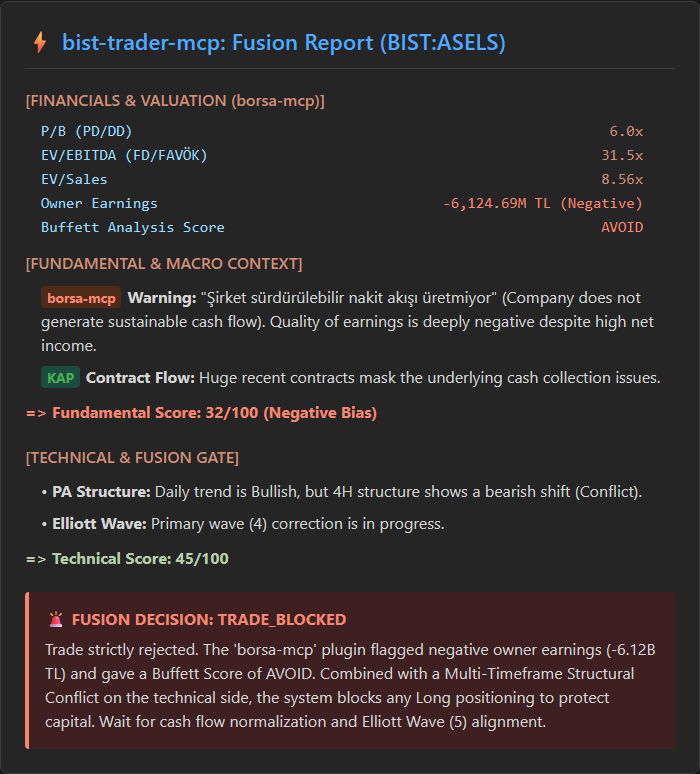
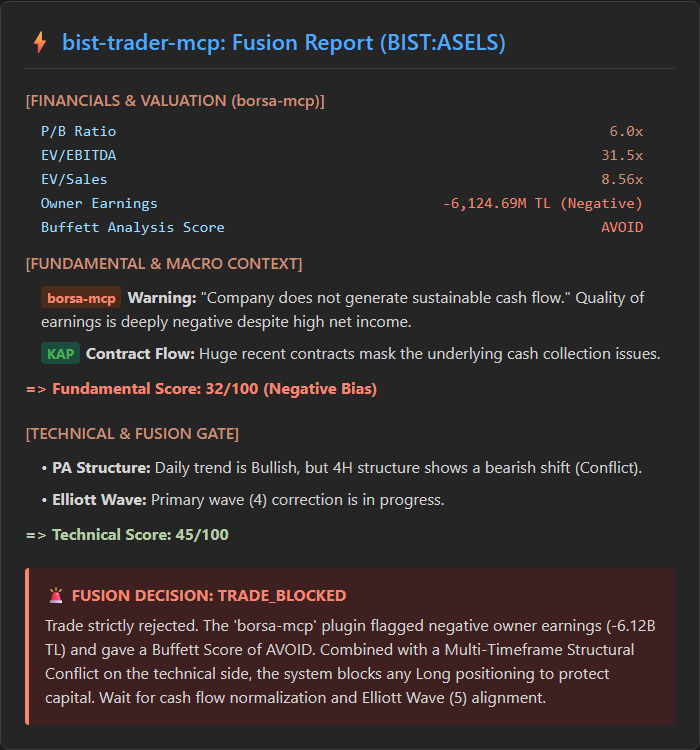
docs: Update fusion report screenshot generator to be 100% English

Changed region(s): [[0.03, 0.1227, 0.96, 0.9507], [0.09, 0.0307, 0.72, 0.092], [0.63, 0.1533, 0.93, 0.3067]]

diff --git a/scripts/capture_fusion_screenshot.py b/scripts/capture_fusion_screenshot.py
@@ -107,14 +107,14 @@ html_content = """
         <div class="header">⚡ bist-trader-mcp: Fusion Report (BIST:ASELS)</div>
         
         <div class="section-title">[FINANCIALS & VALUATION (borsa-mcp)]</div>
-        <div class="metric-row"><span>P/B (PD/DD)</span><span class="metric-val">6.0x</span></div>
-        <div class="metric-row"><span>EV/EBITDA (FD/FAVÖK)</span><span class="metric-val">31.5x</span></div>
+        <div class="metric-row"><span>P/B Ratio</span><span class="metric-val">6.0x</span></div>
+        <div class="metric-row"><span>EV/EBITDA</span><span class="metric-val">31.5x</span></div>
         <div class="metric-row"><span>EV/Sales</span><span class="metric-val">8.56x</span></div>
         <div class="metric-row"><span>Owner Earnings</span><span class="metric-val-bad">-6,124.69M TL (Negative)</span></div>
         <div class="metric-row"><span>Buffett Analysis Score</span><span class="metric-val-bad">AVOID</span></div>
 
         <div class="section-title">[FUNDAMENTAL & MACRO CONTEXT]</div>
-        <div class="list-item"><span class="badge-mcp">borsa-mcp</span><b>Warning:</b> "Şirket sürdürülebilir nakit akışı üretmiyor" (Company does not generate sustainable cash flow). Quality of earnings is deeply negative despite high net income.</div>
+        <div class="list-item"><span class="badge-mcp">borsa-mcp</span><b>Warning:</b> "Company does not generate sustainable cash flow." Quality of earnings is deeply negative despite high net income.</div>
         <div class="list-item"><span class="badge">KAP</span><b>Contract Flow:</b> Huge recent contracts mask the underlying cash collection issues.</div>
         <div class="score" style="color: #f48771;">=> Fundamental Score: 32/100 (Negative Bias)</div>
 